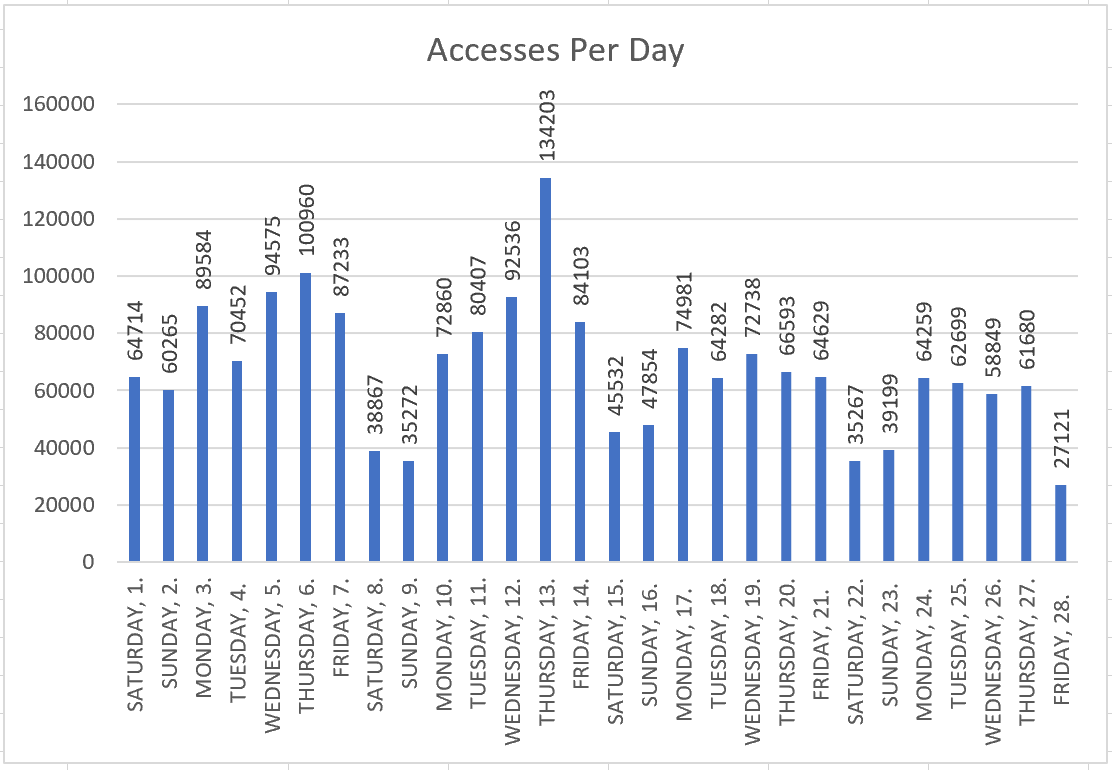
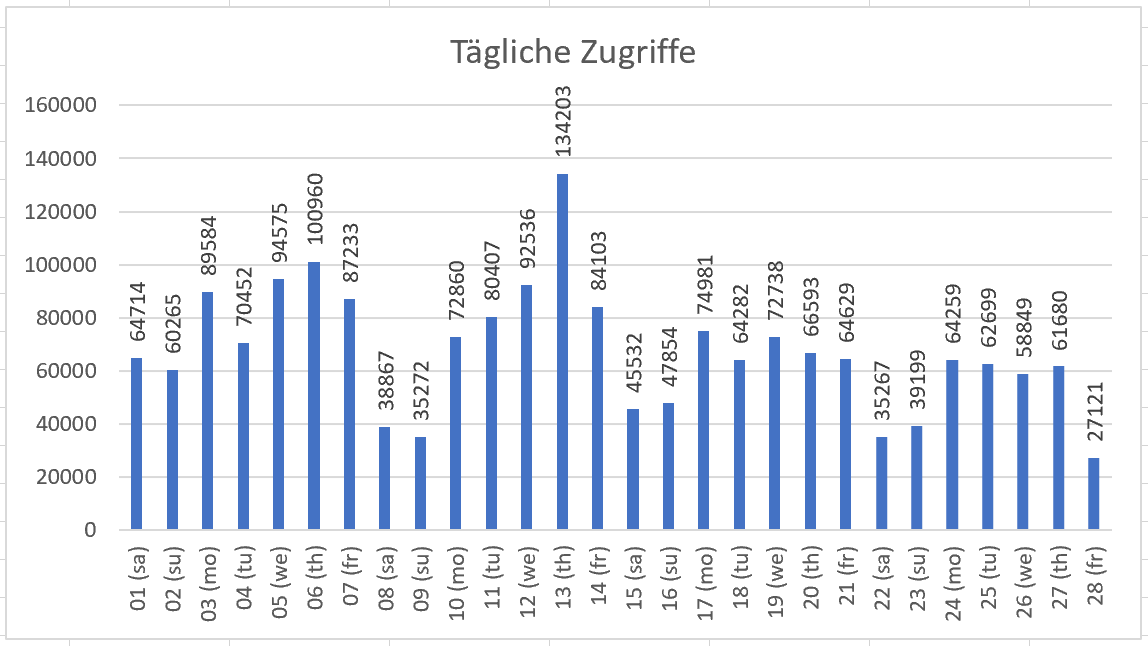
updated results

Changed region(s): [[0.0, 0.0, 1.0, 1.0]]

diff --git a/task3/MapReduce/src/main/java/com/bda/mapreduce/model/LogInfo.java b/task3/MapReduce/src/main/java/com/bda/mapreduce/model/LogInfo.java
@@ -61,7 +61,7 @@ public class LogInfo {
         DateTimeFormatter formatter = DateTimeFormatter.ofPattern("dd/MMM/yyyy:HH:mm:ss", Locale.ENGLISH);
         LocalDateTime dateTime = LocalDateTime.parse(this.time, formatter);
 
-        String dayAndDate = dateTime.getDayOfMonth() + " (" + dateTime.getDayOfWeek().toString().toLowerCase().substring(0,2) + ")";
+        String dayAndDate = (dateTime.getDayOfMonth() <= 9 ? "0" : "") + dateTime.getDayOfMonth() + " (" + dateTime.getDayOfWeek().toString().toLowerCase().substring(0,2) + ")";
 
         return dayAndDate;
     }
